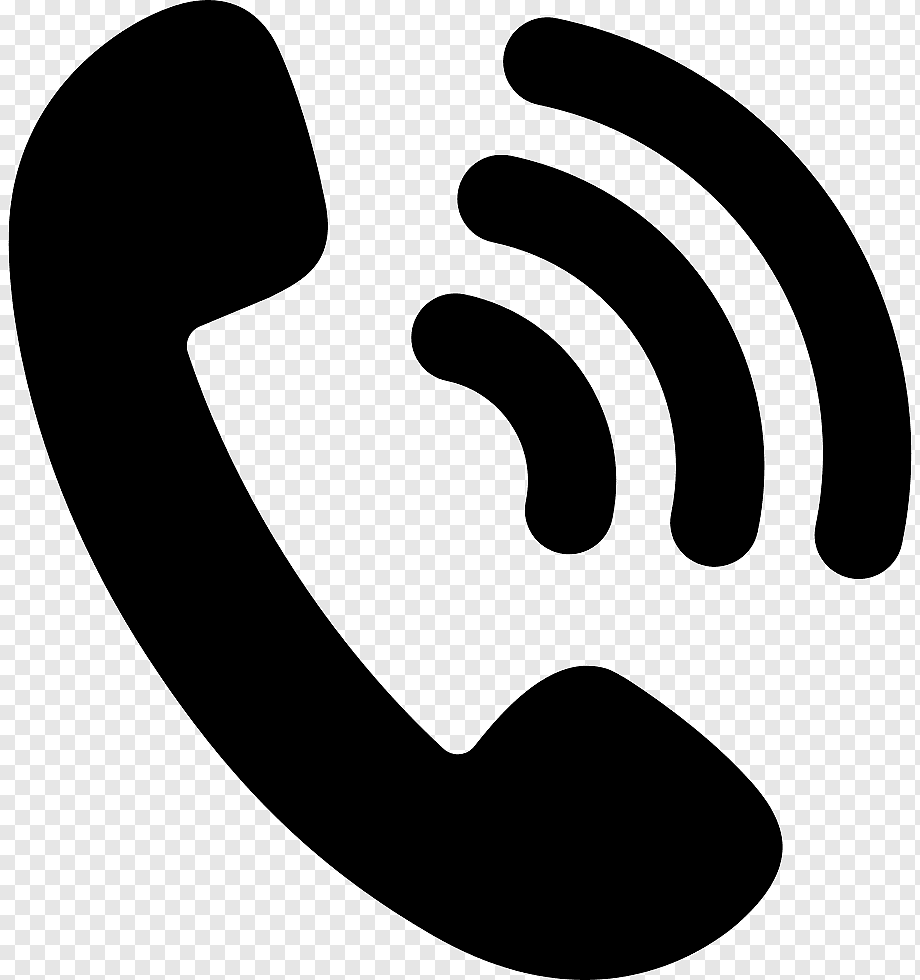
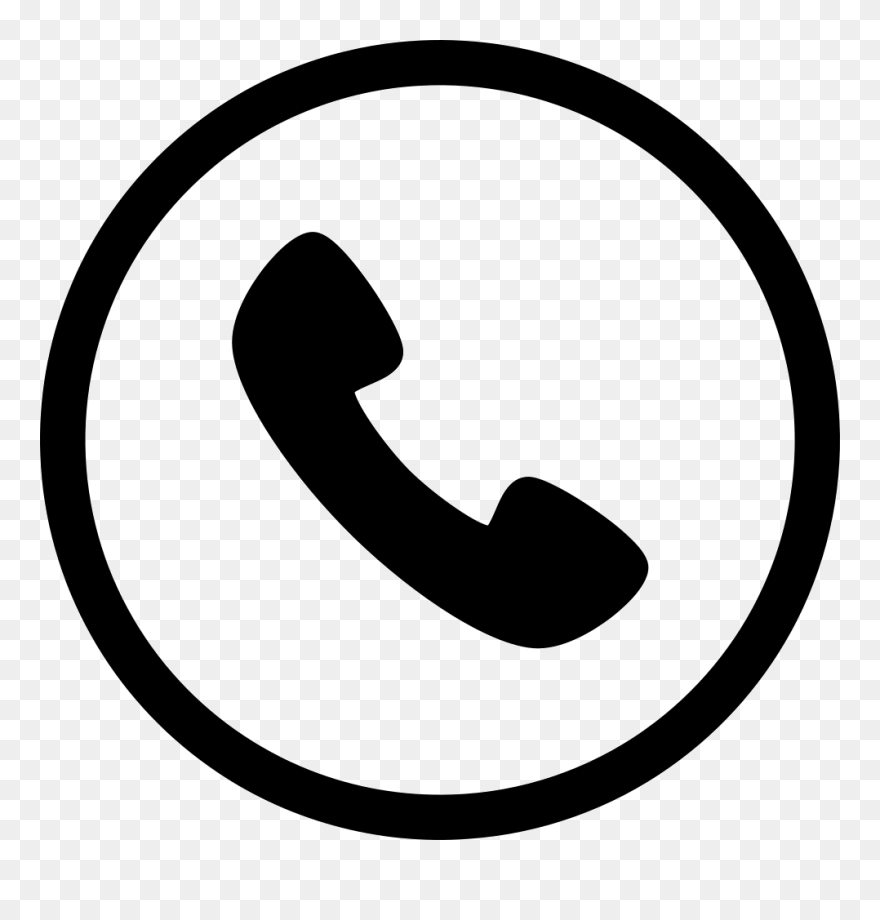
organize contact me section with clickable symbol

diff --git a/index.html b/index.html
@@ -72,13 +72,13 @@
     <section class="work-section">
     <h2 id="work">Work</h2>
     <div class="work1"><h3>Run Buddy</h3>
-        <img src="./image/work1.jpg" alt="run buddy page pic"><br/>
+        <a href="https://junyaq.github.io/bootcamp_class_week2/" target="_blank"><img src="./image/work1.jpg" alt="run buddy page pic"></a><br/>
         <a href="https://junyaq.github.io/bootcamp_class_week2/" target="_blank"><button class="visitweb">See the website</button></a>
         <a href="https://github.com/JunyaQ/bootcamp_class_week2"target="_blank"><button class="visitcode">See the code on GitHub</button></a>
     </div>
 
     <div class="work2"><h3>Robot Gladiators</h3>
-        <img src="./image/work2.png" alt="Robot Gladiators page pic"><br/>
+        <a href="https://junyaq.github.io/robot-gladiators/" target="_blank"><img src="./image/work2.png" alt="Robot Gladiators page pic"></a><br/>
         <a href="https://junyaq.github.io/robot-gladiators/" target="_blank"><button class="visitweb">See the website</button></a>
         <a href="https://github.com/JunyaQ/robot-gladiators" target="_blank"><button class="visitcode">See the code on GitHub</button></a>
     </div>
@@ -88,11 +88,14 @@
     
     <section class="contact-me-section">
     <h2 id="contact-me"> Contact Me</h2>
-            <div><a href="tel:416-878-9976">click here to call me </a></div>
-            <div><a href ="mailto:junyaqiao@gmail.com">junyaqiao@gmail.com</a></div>
-            <div><a href="https://github.com/JunyaQ">GitHub</a></div>
-            <div><a href="https://www.linkedin.com/in/junya-q-219798193/#">Linkedin page</a></div>
-    </section>
+            <div><a href="tel:416-878-9976"><img class ="symbol" src="./image/call.png" alt="contact me call symbol"></a>
+                <p>&larr; 416-878-9976</p></div>
+            <div><a href ="mailto:junyaqiao@gmail.com"><img class="symbol" src="./image/email.png" alt="contact me email symbol"></a>
+                <p>&larr; junyaqiao@gmail.com</p></div>
+            <div><a href="https://github.com/JunyaQ"><img class="symbol" src="./image/github.png" alt="contact me github symbol"></a>
+            <p> &larr; Github page</p></div>
+            <div><a href="https://www.linkedin.com/in/junya-q-219798193/#"><img class="symbol" src="./image/linkedin.png" alt="contact me linkedin symbol"></a>
+                <p> &larr; LinkedIn page</p></div>
     </div>
 </body>
 <footer>

diff --git a/css/style.css b/css/style.css
@@ -116,6 +116,11 @@
     width: 480px;
     height: 240px;
   }
+  .work1 img:hover, .work2 img:hover{
+      width: 512px;
+      height: 384px;
+  }
+  
   
   .visitweb, .visitcode{
     position: relative;
@@ -133,3 +138,17 @@
   .visitweb:hover, .visitcode:hover{
       background-color: var(--background-color-one);
   }
+  .contact-me-section h2{
+      color: var(--heading-color-two);
+  }
+
+  .contact-me-section p{
+      display: inline;
+      color: var(--paragraph-color-two);
+  }
+  .symbol{
+    height: 50px;
+    mix-blend-mode: multiply;
+    opacity: 0.8;  
+  }
+ 
